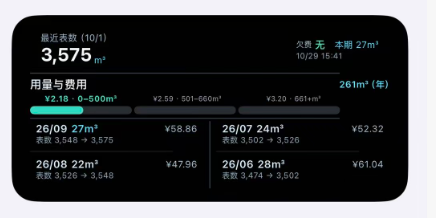
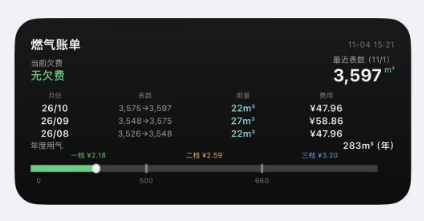
feat: 优化燃气账单小组件样式与功能，增强用户体验

Changed region(s): [[0.0, 0.055, 0.9811, 0.9358], [0.4292, 0.1376, 0.5212, 0.1651]]

diff --git a/huatianxingneng_ranqi.js b/huatianxingneng_ranqi.js
@@ -299,198 +299,211 @@ function writeCache(data) {
 
 function makeWidget(data, stale = false, message = null) {
   const smallFamily = config.widgetFamily === "small";
-  const tc = (dark, light) => new Color(dark);
-  const addRule = (parent, vertical = false, width = 1, height = 1) => {
-    const ctx = new DrawContext();
-    ctx.size = vertical ? new Size(2, 160) : new Size(600, 2);
-    ctx.opaque = false;
-    ctx.setFillColor(tc("#303943", "#C7D3DC"));
-    ctx.fillRect(new Rect(0, 0, ctx.size.width, ctx.size.height));
-    const rule = parent.addImage(ctx.getImage());
-    rule.imageSize = new Size(width, height);
-    return rule;
-  };
   const w = new ListWidget();
-  const grad = new LinearGradient();
-  grad.locations = [0, 0.55, 1];
-  grad.colors = [tc("#1B1C1B", "#F2F7FB"), tc("#111211", "#E8F2F8"), tc("#08090A", "#F7FAFC")];
-  w.backgroundGradient = grad;
-  w.setPadding(smallFamily ? 11 : 12, smallFamily ? 13 : 16, smallFamily ? 11 : 12, smallFamily ? 13 : 16);
+  const bg = new LinearGradient();
+  bg.locations = [0, 1];
+  bg.colors = [new Color("#191A19"), new Color("#0D0D0D")];
+  w.backgroundGradient = bg;
+  w.setPadding(smallFamily ? 10 : 11, smallFamily ? 12 : 14, smallFamily ? 10 : 11, smallFamily ? 12 : 14);
   w.url = "http://wx.huatianxn.qjcode.com/page/#/bill-query";
+
+  const textColor = {
+    primary: new Color("#F5F5F4"), secondary: new Color("#A3A5A4"), muted: new Color("#777B7A"),
+    line: new Color("#424645"), cyan: new Color("#66D9E8"), green: new Color("#35D07F"), red: new Color("#FF453A"),
+  };
+  const rule = (parent, width) => {
+    const ctx = new DrawContext();
+    ctx.size = new Size(width, 1);
+    ctx.opaque = false;
+    ctx.setFillColor(textColor.line);
+    ctx.fillRect(new Rect(0, 0, width, 1));
+    const img = parent.addImage(ctx.getImage());
+    img.imageSize = new Size(width, 1);
+  };
+  const stamp = value => {
+    const d = value ? new Date(value) : null;
+    if (!d || !Number.isFinite(d.getTime())) return "";
+    const p = n => String(n).padStart(2, "0");
+    return p(d.getMonth() + 1) + "-" + p(d.getDate()) + " " + p(d.getHours()) + ":" + p(d.getMinutes());
+  };
 
   if (message || !data || !data.bills || !data.bills.length) {
     const t = w.addText(message || "等待账单数据");
     t.font = Font.mediumSystemFont(12);
-    t.textColor = tc("#E8F5FF", "#17344A");
+    t.textColor = textColor.primary;
     t.lineLimit = 2;
     w.addSpacer(3);
     const hint = w.addText("请在 Scriptable 中运行脚本完成首次登录");
     hint.font = Font.systemFont(9);
-    hint.textColor = tc("#A2BACB", "#64849B");
+    hint.textColor = textColor.secondary;
     return w;
   }
 
   const latest = data.bills[0];
   const year = String(new Date().getFullYear());
   const annualVolume = Number.isFinite(Number(data.annualVolume))
-      ? Number(data.annualVolume)
-      : data.bills.filter(x => String(x.month).startsWith(year)).reduce((sum, x) => sum + (Number(x.volume) || 0), 0);
-  const currentTier = annualVolume <= 500 ? 0 : annualVolume <= 660 ? 1 : 2;
-  const tiers = [
-    { price: "¥2.18", range: "0–500" },
-    { price: "¥2.59", range: "501–660" },
-    { price: "¥3.20", range: "661+" },
-  ];
+    ? Number(data.annualVolume)
+    : data.bills.filter(x => String(x.month).startsWith(year)).reduce((sum, x) => sum + (Number(x.volume) || 0), 0);
   const arrears = data.currentArrears;
   const arrearsKnown = arrears !== null && arrears !== undefined && Number.isFinite(Number(arrears));
   const noArrears = arrearsKnown && Number(arrears) <= 0;
-  const hero = w.addStack();
-  hero.centerAlignContent();
-  hero.setPadding(smallFamily ? 3 : 3, smallFamily ? 6 : 9, smallFamily ? 3 : 3, smallFamily ? 6 : 9);
+  const date = formatDate(data.currentReadTime || latest.thisReadTime);
+  const update = stamp(data.updatedAt);
+  const width = smallFamily ? 132 : 300;
 
-  const readingBox = hero.addStack();
-  readingBox.layoutVertically();
-  const readDate = formatDate(data.currentReadTime || latest.thisReadTime);
-  const readingCaption = readingBox.addText("最近表数" + (readDate ? "（" + readDate + "）" : ""));
-  readingCaption.font = Font.systemFont(smallFamily ? 7 : 8);
-  readingCaption.textColor = tc("#9EB7C9", "#5C7C91");
-  const readingRow = readingBox.addStack();
-  readingRow.bottomAlignContent();
-  const readingValue = readingRow.addText(data.currentReading == null ? "—" : Number(data.currentReading).toLocaleString("en-US", { maximumFractionDigits: 1 }));
-  readingValue.font = Font.boldSystemFont(smallFamily ? 15 : 16);
-  readingValue.textColor = tc("#F0FAFF", "#15364C");
-  readingRow.addSpacer(2);
-  const unit = readingRow.addText("m³");
-  unit.font = Font.systemFont(8);
-  unit.textColor = tc("#55D9FF", "#087EAA");
-  hero.addSpacer();
-  const statusBox = hero.addStack();
-  statusBox.layoutVertically();
-  statusBox.addSpacer(1);
-  const arrearsRow = statusBox.addStack();
-  arrearsRow.centerAlignContent();
-  const arrearsLabel = arrearsRow.addText("欠费 ");
-  arrearsLabel.font = Font.systemFont(smallFamily ? 6 : 7);
-  arrearsLabel.textColor = tc("#9EB7C9", "#5C7C91");
-  const arrearsValue = arrearsRow.addText(arrearsKnown ? (noArrears ? "无" : "¥" + Number(arrears).toFixed(2)) : "待确认");
-  arrearsValue.font = Font.semiboldSystemFont(smallFamily ? 8 : 9);
-  arrearsValue.textColor = noArrears ? tc("#48E6B0", "#087F61") : tc(arrearsKnown ? "#FF453A" : "#B7C4CF", arrearsKnown ? "#C65328" : "#687D8B");
-  arrearsRow.addSpacer(smallFamily ? 4 : 8);
-  const currentUsage = arrearsRow.addText("本期 " + Number(latest.volume).toFixed(0) + "m³");
-  currentUsage.font = Font.systemFont(smallFamily ? 7 : 8);
-  currentUsage.textColor = tc("#55D9FF", "#087EAA");
-  const refreshTime = data.updatedAt ? new Date(data.updatedAt) : null;
-  if (refreshTime && Number.isFinite(refreshTime.getTime())) {
-    const refreshLabel = statusBox.addText(refreshTime.toLocaleString("zh-CN", {
-      month: "2-digit", day: "2-digit", hour: "2-digit", minute: "2-digit", hour12: false,
-    }));
-    refreshLabel.font = Font.systemFont(smallFamily ? 6 : 7);
-    refreshLabel.textColor = tc("#94A9B8", "#718A9A");
-  }
+  const header = w.addStack();
+  header.centerAlignContent();
+  const title = header.addText("燃气账单");
+  title.font = Font.boldSystemFont(smallFamily ? 10 : 11);
+  title.textColor = textColor.primary;
+  header.addSpacer();
+  const updated = header.addText(update);
+  updated.font = Font.systemFont(smallFamily ? 6 : 7);
+  updated.textColor = textColor.muted;
 
-  w.addSpacer(smallFamily ? 2 : 3);
-  addRule(w, false, smallFamily ? 120 : 268, 1);
-  w.addSpacer(smallFamily ? 2 : 3);
-  const section = w.addStack();
-  section.centerAlignContent();
-  const sectionTitle = section.addText("用量与费用");
-  sectionTitle.font = Font.semiboldSystemFont(smallFamily ? 7 : 10);
-  sectionTitle.textColor = tc("#EAF5FC", "#24465B");
-  section.addSpacer();
-  const annualValueText = section.addText(annualVolume.toFixed(0) + "m³（年）");
-  annualValueText.font = Font.semiboldSystemFont(smallFamily ? 7 : 8);
-  annualValueText.textColor = tc("#58DDFF", "#087EA8");
-
-  const tierAccents = ["#37D9C4", "#F3CA59", "#FF7EA0"];
-  const tierRow = w.addStack();
-  tierRow.spacing = smallFamily ? 2 : 4;
-  const segmentWidths = smallFamily ? [38, 38, 38] : [88, 88, 88];
-  for (let i = 0; i < tiers.length; i++) {
-    const tier = tiers[i];
-    const pill = tierRow.addStack();
-    pill.centerAlignContent();
-    pill.size = new Size(segmentWidths[i], smallFamily ? 11 : 13);
-    const label = pill.addText(tier.price + " · " + tier.range + "m³");
-    label.font = i === currentTier ? Font.boldSystemFont(smallFamily ? 5 : 7) : Font.systemFont(smallFamily ? 5 : 6);
-    label.textColor = i === currentTier ? tc(tierAccents[i], ["#087E8B", "#8C6A00", "#A63C61"][i]) : tc("#9AAFBD", "#738A99");
-    label.centerAlignText();
-    label.minimumScaleFactor = 0.5;
-  }
-
-  const progress = w.addStack();
-  progress.spacing = 2;
-  const segmentLimits = [500, 160, 340];
-  let remainingVolume = Math.max(0, annualVolume);
-  for (let i = 0; i < segmentWidths.length; i++) {
-    const segment = progress.addStack();
-    segment.size = new Size(segmentWidths[i], smallFamily ? 5 : 7);
-    segment.backgroundColor = tc("#292D32", "#D9E5EC");
-    segment.cornerRadius = 4;
-    const filled = Math.min(remainingVolume, segmentLimits[i]);
-    const fillWidth = Math.max(0, Math.min(segmentWidths[i], segmentWidths[i] * filled / segmentLimits[i]));
-    if (fillWidth > 0) {
-      const fill = segment.addStack();
-      fill.size = new Size(fillWidth, smallFamily ? 5 : 7);
-      fill.backgroundColor = tc(tierAccents[i], ["#087E8B", "#8C6A00", "#A63C61"][i]);
-      fill.cornerRadius = 4;
-    }
-    if (fillWidth < segmentWidths[i]) segment.addSpacer();
-    remainingVolume -= filled;
-  }
-
-  w.addSpacer(smallFamily ? 2 : 3);
-  addRule(w, false, smallFamily ? 120 : 268, 1);
   w.addSpacer(smallFamily ? 1 : 2);
-  const recent = data.bills.slice(0, smallFamily ? 3 : 4);
-  const addBillCard = (parent, item, index, compact) => {
-    const card = parent.addStack();
-    card.layoutVertically();
-    card.setPadding(compact ? 1 : 1, compact ? 4 : 5, compact ? 1 : 1, compact ? 4 : 5);
-    const row = card.addStack();
-    row.centerAlignContent();
-    const month = row.addText(compact ? item.month.slice(5) + "月" : item.month.slice(2).replace("-", "/"));
-    month.font = Font.semiboldSystemFont(compact ? 7 : 9);
-    month.textColor = tc("#D7EFFF", "#27475B");
-    month.minimumScaleFactor = 0.75;
-    row.addSpacer(3);
-    const volume = row.addText(Number(item.volume).toFixed(0) + "m³");
-    volume.font = Font.semiboldSystemFont(compact ? 7 : 9);
-    volume.textColor = tc(index === 0 ? "#58DDFF" : "#D4E9F5", index === 0 ? "#087EA8" : "#35576B");
-    row.addSpacer();
-    const fee = row.addText("¥" + Number(item.fee).toFixed(2));
-    fee.font = Font.systemFont(compact ? 7 : 8);
-    fee.textColor = tc("#A7C2D3", "#6B8798");
-    fee.minimumScaleFactor = 0.75;
-    const readingRow = card.addStack();
-    readingRow.centerAlignContent();
-    const readings = item.lastRead == null || item.thisRead == null
-        ? "表数 — → —"
-        : "表数 " + Number(item.lastRead).toLocaleString("en-US", { maximumFractionDigits: 1 })
-        + " → " + Number(item.thisRead).toLocaleString("en-US", { maximumFractionDigits: 1 });
-    const readText = readingRow.addText(readings);
-    readText.font = Font.systemFont(compact ? 6 : 7);
-    readText.textColor = tc("#93ADBF", "#6B8798");
-    readText.minimumScaleFactor = 0.7;
-  };
+  const summary = w.addStack();
+  summary.centerAlignContent();
+  const arrearsBox = summary.addStack();
+  arrearsBox.layoutVertically();
+  const arrearsCaption = arrearsBox.addText("当前欠费");
+  arrearsCaption.font = Font.systemFont(smallFamily ? 6 : 7);
+  arrearsCaption.textColor = textColor.secondary;
+  const arrearsText = arrearsBox.addText(arrearsKnown ? (noArrears ? "无欠费" : "¥" + Number(arrears).toFixed(2)) : "待确认");
+  arrearsText.font = Font.semiboldSystemFont(smallFamily ? 9 : 10);
+  arrearsText.textColor = noArrears ? textColor.green : (arrearsKnown ? textColor.red : textColor.secondary);
+  summary.addSpacer();
+  const meterBox = summary.addStack();
+  meterBox.layoutVertically();
+  const meterCaption = meterBox.addText("最近表数" + (date ? "（" + date + "）" : ""));
+  meterCaption.font = Font.systemFont(smallFamily ? 6 : 7);
+  meterCaption.textColor = textColor.secondary;
+  meterCaption.rightAlignText();
+  const meterRow = meterBox.addStack();
+  const meterValue = meterRow.addText(data.currentReading == null ? "—" : Number(data.currentReading).toLocaleString("en-US", { maximumFractionDigits: 1 }));
+  meterValue.font = Font.boldSystemFont(smallFamily ? 13 : 15);
+  meterValue.textColor = textColor.primary;
+  meterRow.addSpacer(2);
+  const unit = meterRow.addText("m³");
+  unit.font = Font.systemFont(smallFamily ? 6 : 7);
+  unit.textColor = textColor.cyan;
+  meterValue.rightAlignText();
+  unit.rightAlignText();
+  w.addSpacer(smallFamily ? 2 : 3);
 
-  if (smallFamily) {
-    for (let i = 0; i < recent.length; i++) addBillCard(w, recent[i], i, true);
-  } else {
-    const columns = w.addStack();
-    columns.spacing = 5;
-    const left = columns.addStack();
-    left.layoutVertically();
-    left.spacing = 4;
-    addRule(columns, true, 1, 58);
-    const right = columns.addStack();
-    right.layoutVertically();
-    right.spacing = 4;
-    for (let i = 0; i < recent.length; i++) {
-      const column = i < 2 ? left : right;
-      addBillCard(column, recent[i], i, false);
-      if (i !== 1 && i !== recent.length - 1) addRule(column, false, 124, 1);
-    }
+  const columnWidths = smallFamily ? [26, 52, 25, 29] : [42, 114, 55, 89];
+  const addCell = (row, value, index, color, font, align) => {
+    const cell = row.addStack();
+    cell.size = new Size(columnWidths[index], smallFamily ? 9 : 11);
+    cell.centerAlignContent();
+    const label = cell.addText(value);
+    label.font = font;
+    label.textColor = color;
+    label.minimumScaleFactor = 0.6;
+    if (align === "right") label.rightAlignText();
+    else if (align === "center") label.centerAlignText();
+    return cell;
+  };
+  const tableHeader = w.addStack();
+  addCell(tableHeader, "月份", 0, textColor.muted, Font.systemFont(smallFamily ? 5 : 6), "left");
+  addCell(tableHeader, "表数", 1, textColor.muted, Font.systemFont(smallFamily ? 5 : 6), "center");
+  addCell(tableHeader, "用量", 2, textColor.muted, Font.systemFont(smallFamily ? 5 : 6), "right");
+  addCell(tableHeader, "费用", 3, textColor.muted, Font.systemFont(smallFamily ? 5 : 6), "right");
+
+  const recent = data.bills.slice(0, 3);
+  for (let i = 0; i < recent.length; i++) {
+    const item = recent[i];
+    const row = w.addStack();
+    row.centerAlignContent();
+    addCell(row, item.month.slice(2).replace("-", "/"), 0, textColor.primary, Font.semiboldSystemFont(smallFamily ? 6 : 8), "left");
+    const readings = item.lastRead == null || item.thisRead == null
+      ? "— → —"
+      : Number(item.lastRead).toLocaleString("en-US", { maximumFractionDigits: 1 }) + "→" + Number(item.thisRead).toLocaleString("en-US", { maximumFractionDigits: 1 });
+    addCell(row, readings, 1, textColor.secondary, Font.systemFont(smallFamily ? 5 : 7), "center");
+    addCell(row, Number(item.volume).toFixed(0) + "m³", 2, textColor.cyan, Font.semiboldSystemFont(smallFamily ? 6 : 8), "right");
+    addCell(row, "¥" + Number(item.fee).toFixed(2), 3, textColor.primary, Font.semiboldSystemFont(smallFamily ? 6 : 8), "right");
   }
+
+  const yearNow = w.addStack();
+  yearNow.centerAlignContent();
+  const yearCaption = yearNow.addText("年度用气");
+  yearCaption.font = Font.systemFont(smallFamily ? 6 : 7);
+  yearCaption.textColor = textColor.secondary;
+  yearNow.addSpacer();
+  const yearValue = yearNow.addText(annualVolume.toFixed(0) + "m³（年）");
+  yearValue.font = Font.semiboldSystemFont(smallFamily ? 7 : 8);
+  yearValue.textColor = textColor.primary;
+
+  const tierColors = [new Color("#36D17C"), new Color("#F0C44F"), new Color("#70A7FF")];
+  const tierNames = ["一档 ¥2.18", "二档 ¥2.59", "三档 ¥3.20"];
+  const tiers = w.addStack();
+  const tierWidth = width / 3;
+  for (let i = 0; i < tierNames.length; i++) {
+    const cell = tiers.addStack();
+    cell.size = new Size(tierWidth, smallFamily ? 9 : 10);
+    const label = cell.addText(tierNames[i]);
+    label.font = Font.systemFont(smallFamily ? 5 : 6);
+    label.textColor = tierColors[i];
+    label.centerAlignText();
+    label.minimumScaleFactor = 0.6;
+  }
+
+  const axis = new DrawContext();
+  axis.size = new Size(width, smallFamily ? 10 : 11);
+  axis.opaque = false;
+  const h = smallFamily ? 5 : 6;
+  const y = 2;
+  const x1 = width / 3;
+  const x2 = width * 2 / 3;
+  axis.setFillColor(new Color("#3C4143"));
+  axis.fillRect(new Rect(0, y, width, h));
+  const value = Math.max(0, annualVolume);
+  const stageValues = [
+    Math.min(value, 500) / 500,
+    Math.min(Math.max(value - 500, 0), 160) / 160,
+    Math.min(Math.max(value - 660, 0), 340) / 340,
+  ];
+  const stageStarts = [0, x1, x2];
+  for (let i = 0; i < stageValues.length; i++) {
+    if (stageValues[i] <= 0) continue;
+    axis.setFillColor(tierColors[i]);
+    axis.fillRect(new Rect(stageStarts[i], y, tierWidth * stageValues[i], h));
+  }
+  axis.setFillColor(new Color("#D7DADB"));
+  axis.fillRect(new Rect(x1 - 0.5, y - 1, 1, h + 2));
+  axis.fillRect(new Rect(x2 - 0.5, y - 1, 1, h + 2));
+  const markerPosition = value <= 500
+    ? tierWidth * value / 500
+    : value <= 660
+      ? x1 + tierWidth * (value - 500) / 160
+      : x2 + tierWidth * Math.min((value - 660) / 340, 1);
+  axis.setFillColor(new Color("#F5F5F4"));
+  axis.fillEllipse(new Rect(Math.max(0, Math.min(width - 7, markerPosition - 3.5)), y - 1, 7, h + 2));
+  const axisImage = w.addImage(axis.getImage());
+  axisImage.imageSize = new Size(width, smallFamily ? 10 : 11);
+
+  const tickRow = w.addStack();
+  const labelWidth = smallFamily ? 20 : 28;
+  const firstGap = x1 - 14 - labelWidth / 2;
+  const middleGap = x2 - x1 - labelWidth;
+  const tick = (value, labelW, align) => {
+    const holder = tickRow.addStack();
+    holder.size = new Size(labelW, smallFamily ? 8 : 9);
+    holder.centerAlignContent();
+    const t = holder.addText(value);
+    t.font = Font.systemFont(smallFamily ? 5 : 6);
+    t.textColor = textColor.muted;
+    t.minimumScaleFactor = 0.7;
+    if (align === "center") t.centerAlignText();
+    else if (align === "right") t.rightAlignText();
+    return t;
+  };
+  tick("0", 14, "left");
+  tickRow.addSpacer(Math.max(0, firstGap));
+  tick("500", labelWidth, "center");
+  tickRow.addSpacer(Math.max(0, middleGap));
+  tick("660", labelWidth, "center");
+  tickRow.addSpacer();
 
   return w;
 }
